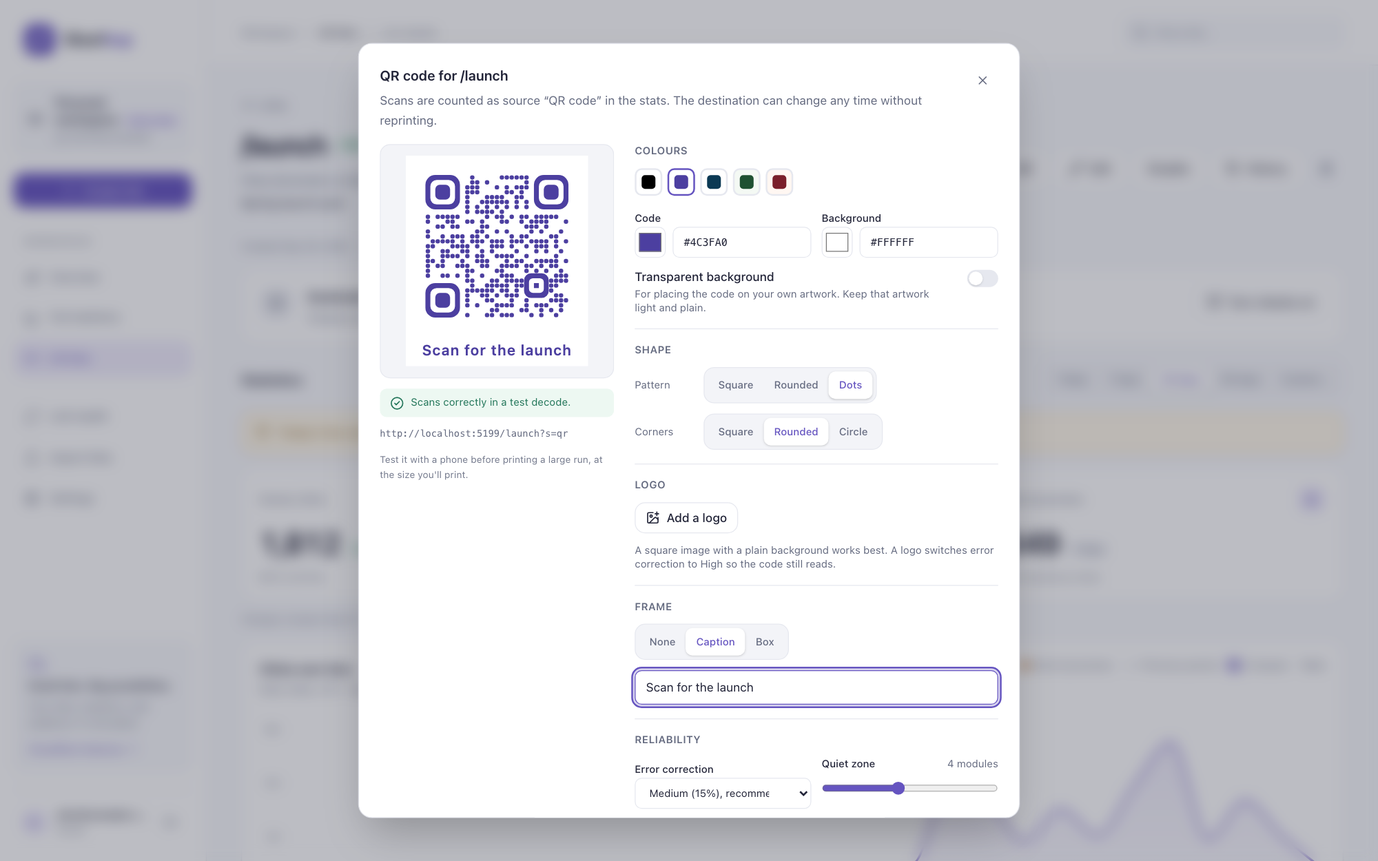
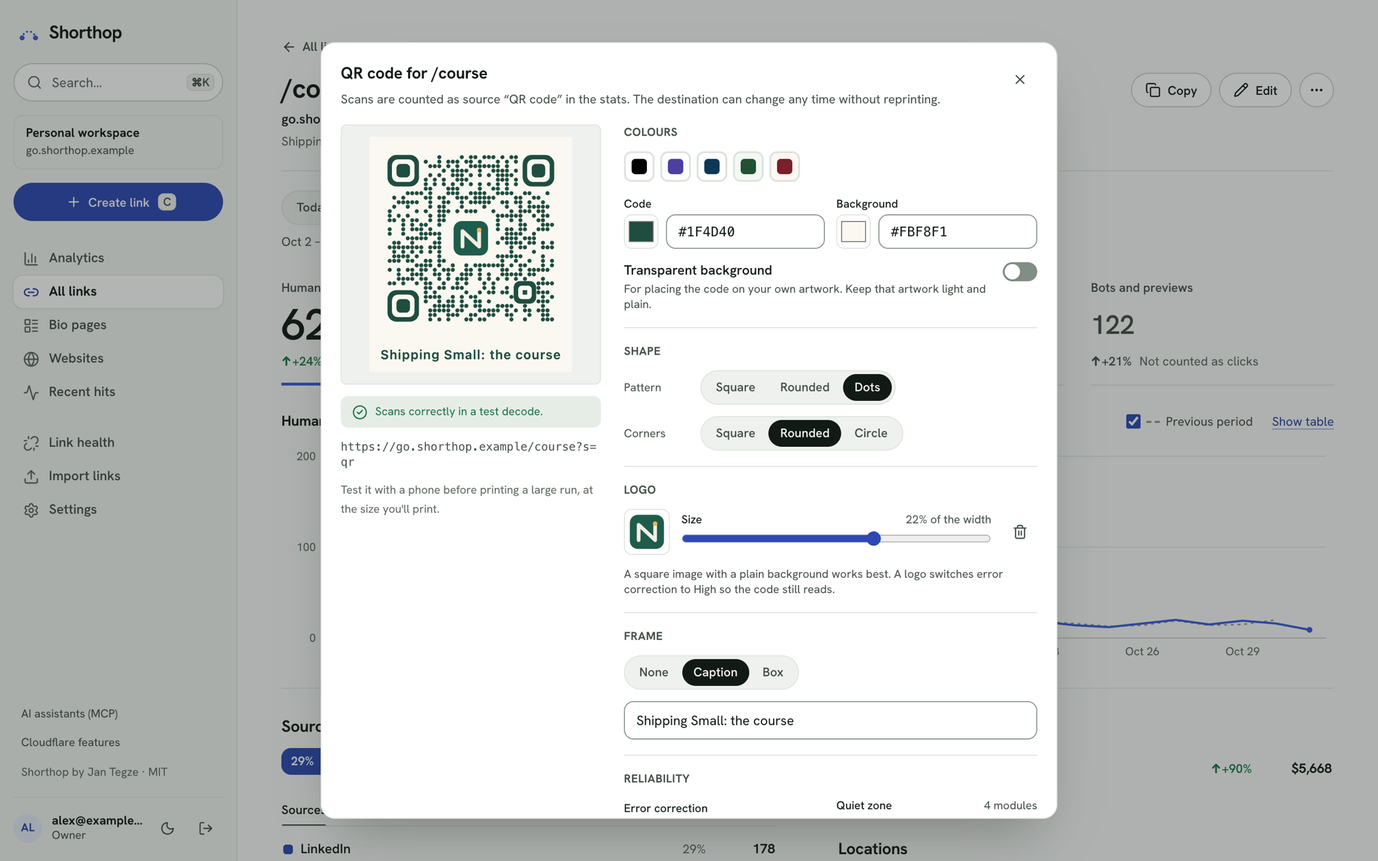
README for 2.0: why people switch, what's new, leaving another shortener, new screenshots
- A new opening: short links on your own domain and the customers they bring,
  with the one-field Deploy to Cloudflare setup
- "Why people switch to Shorthop": what users of hosted shorteners run into,
  and what Shorthop does instead
- What's new in 2.0, the features list brought up to date, steps for leaving
  another shortener, and FAQ entries on AI assistants, flagged destinations
  and Bitly QR codes
- Configuration, routes and project layout for MCP, OpenAPI, backups, the
  safety lookups and src/client/app
- Every screenshot retaken in the new design with made-up data; the ones no
  longer shown are removed

diff --git a/README.md b/README.md
@@ -4,37 +4,53 @@
 [![Node 22.12+](https://img.shields.io/badge/node-%E2%89%A522.12-brightgreen.svg)](package.json)
 [![Runs on Cloudflare Workers](https://img.shields.io/badge/runs%20on-Cloudflare%20Workers-f38020.svg)](https://workers.cloudflare.com/)
 
-**Short links, website analytics and revenue attribution on your own domain, in one Cloudflare Worker you own.**
+**Short links on your own domain, and the paying customers they bring, in one Cloudflare Worker you own.**
 
-See which link, post, newsletter or AI answer brought each visitor, and each paying customer. No cookies, no IP addresses stored, no monthly bill: for most personal use it fits inside Cloudflare's free allowances.
+Put a link in a LinkedIn post or on a printed QR code, then see the clicks, the visits and the Stripe payment it led to. Shorthop runs in your own Cloudflare account, so no shortener's plan decides whether your links keep working or how much history you keep. It stores no IP addresses and sets no cookies. For most people it fits in Cloudflare's free allowances.
 
 [![Deploy to Cloudflare](https://deploy.workers.cloudflare.com/button)](https://deploy.workers.cloudflare.com/?url=https://github.com/jntegz/shorthop)
-<br><sub>No terminal needed. On Cloudflare's setup page, only the admin password needs filling in. [What each field means](docs/SETUP.md#deploy-form)</sub>
+<br><sub>You don't need a terminal: Cloudflare's setup page asks only for an admin password. [What each field means](docs/SETUP.md#deploy-form) · Coming from Bitly, Rebrandly, Short.io or Dub? [Bring your links](#leaving-another-shortener)</sub>
 
-![The Shorthop overview: human clicks, daily unique visitors and bots over 30 days, compared with the previous period](docs/images/dashboard.png)
+![The Shorthop analytics home: human clicks, visitors and revenue over 30 days, the top links and their sources](docs/images/dashboard.png)
 
-[Why Shorthop](#why-shorthop) · [What's new](#whats-new-in-13) · [Features](#features) · [Screenshots](#screenshots) · [Install](#install) · [Common trip-ups](#things-new-users-commonly-trip-over) · [Documentation](#documentation) · [Costs](#costs) · [FAQ](#faq)
+[Why people switch](#why-people-switch-to-shorthop) · [What's new](#whats-new-in-20) · [Features](#features) · [Screenshots](#screenshots) · [Install](#install) · [Common trip-ups](#things-new-users-commonly-trip-over) · [Documentation](#documentation) · [Costs](#costs) · [FAQ](#faq)
+
+## Why people switch to Shorthop
+
+What users of hosted shorteners keep running into, and what Shorthop does instead:
+
+| What happens elsewhere | With Shorthop |
+|---|---|
+| Links and QR codes stop working when a plan lapses or an account is banned | Links live in your own Cloudflare account, on your domain. No shortener's billing sits between you and them. |
+| Free links get ads, or a page before the destination | A plain `302` to the destination, after one KV read |
+| Click history cut to 30 days on cheaper plans | Daily statistics stay in your own database until you delete them; individual clicks are kept for 90 days |
+| Exports locked to higher plans | Links (with every setting), statistics and payments as CSV or JSON, or everything as one backup, any time |
+| A monthly cap on changing where a link goes | Change any link whenever you like (Workers Free allows 1,000 saves a day). Every version is kept and can be restored |
+| Revenue tracking only on a top plan, or under a commercial license | Revenue from Stripe, Paddle, Lemon Squeezy, Dodo Payments, Creem, Gumroad, FastSpring and PayPal, matched to the link that brought each buyer. MIT-licensed |
+| Priced per seat | Admins, managers and users with their own permissions, at no cost (Cloudflare Access is free for up to 50 users) |
 
 ## Why Shorthop
 
-- **From click to customer.** A short link takes someone to your site; Shorthop follows that visit to the payment it led to. You see revenue per link, per channel, per campaign and per landing page, not just clicks.
-- **Your domain, your data.** Links live on `go.yourdomain.com`, and every number stays in your own Cloudflare account. No seats, no plan limits on links, no vendor reading your traffic.
-- **Private by design.** Cookieless by default: nothing stored in the visitor's browser, and no IP addresses kept. Unique visitors are counted with a daily hash that can't be traced back afterwards.
-- **Proof you can share.** Send a brand, client or sponsor a live, read-only statistics page for one link: clicks, countries, sources and devices, without your login or your destination URL. Useful for creators and influencers reporting campaign results.
+- **Revenue per link.** A short link takes someone to your site, and Shorthop follows that visit to the payment it led to. A link straight to a Stripe, Lemon Squeezy, Dodo, Creem or Gumroad checkout is credited too, with no website in between. Revenue is broken down by link, channel, campaign and landing page.
+- **Everything in your account.** Links live on `go.yourdomain.com`, and every number stays in your Cloudflare account. Back it all up as one ZIP whenever you like.
+- **Cookieless.** Nothing is stored in the visitor's browser and no IP addresses are kept. Unique visitors are counted with a daily hash that can't be traced back afterwards.
+- **Reports you can send.** Send a sponsor or client a live, read-only page for one link, or a campaign report for a tag or a set of links, with revenue if you choose. They never see your login or your destinations.
 - **Free to run.** One Worker on Cloudflare's free tier covers most personal use (100,000 requests a day). Install it with one button.
 
-## What's new in 1.3
+## What's new in 2.0
 
-- **Privacy requests:** find, export or erase everything stored about one visitor or customer, and let customer details expire after 1 to 7 years.
-- **`ENCRYPTION_KEY`:** an optional secret for stored webhook, share and payment secrets, so rotating `SESSION_SECRET` no longer makes them unreadable.
+- **A new admin.** Every page is rebuilt: analytics, links, websites, live hits and settings, in light and dark, with ⌘K to jump anywhere, `c` to create a link, and a layout made for phones.
+- **Revenue from links straight to a checkout:** Stripe Payment Links, Lemon Squeezy, Dodo, Creem and Gumroad.
+- **Campaign reports:** one read-only page for a tag or a set of links, optionally with revenue, for sponsors and clients.
+- **Leave another shortener in minutes:** import from Bitly, Rebrandly, Short.io or Dub by file or straight from their API, and move the links onto your domain.
+- **Backups:** everything in one ZIP, plus a weekly copy to R2.
+- **AI assistants:** create links and read statistics from Claude Code, Cursor or VS Code through an MCP server, or install the skill with `npx skills add jntegz/shorthop`. The admin also has an API reference, and Workers AI can suggest slugs and previews if you turn it on.
+- **Live map and click heatmap:** see where clicks come from right now, and the hours your audience clicks, so you know when to post. A new `link.clicked` webhook sends each click to your own tools.
+- **Bio pages:** a link-in-bio page whose buttons are your own short links, so every tap is counted.
+- **Safety:** a warning page before destinations Cloudflare flags as malware or phishing.
+- **Day to day:** bulk actions, a warning when a destination is already shortened, a bookmarklet and a share target, and error messages that say what failed.
 
-New in 1.2:
-
-- **Websites:** a small cookieless script (about 8 KB) for your own sites, with a live view of who's on the site right now.
-- **Revenue:** payments from **Stripe, Paddle, Lemon Squeezy, Dodo Payments, Creem, Gumroad, FastSpring and PayPal**, matched to the visit and the short link that brought each buyer.
-- **Insights:** peak hours, reading time and average scroll depth for buyers against non-buyers, page speed (Core Web Vitals), goals, funnels, path to purchase and customer value by first source.
-- **Shared statistics** for a single link, with an optional password and end date.
-- **Your colour:** pick the admin's accent colour (purple, blue, green, red or any colour).
+Earlier releases are in the [changelog](CHANGELOG.md).
 
 ## Features
 
@@ -42,27 +58,31 @@ New in 1.2:
 
 - **Fast redirects:** one KV read, then a `302`. Analytics is written after the response, so it never slows down or breaks a click.
 - **Several domains:** each short domain has its own slugs and stats. The admin can live on the primary domain or on a separate host.
-- **Admin at `/_admin`:** create, edit, disable, expire, tag and search links, with custom slugs and a live preview of the short link.
+- **Admin at `/_admin`:** create, edit, disable, expire, tag and search links, with custom slugs and a live preview of the short link. Select links to enable, disable, tag or delete them together, and rename or merge tags.
+- **Bio pages:** a link can be a link-in-bio page instead of a redirect, with buttons to your own short links or any address, short texts, section titles, social icons, a share panel and your own colours.
 - **Smart routing:** rules by device (iPhone & iPad, Android, desktop, other) and country, first match wins, with A/B splits across up to 10 weighted destinations. A simulator in the editor, and results per rule and variant on the link page. Bots and previews get the default destination; no cookies.
-- **Social previews:** your own title, description and image for LinkedIn, Slack, X, iMessage and other link previews, with mockups while you edit.
+- **Social previews:** your own title, description and image for LinkedIn, Slack, X, iMessage and other link previews, with mockups while you edit. Workers AI can suggest slugs and write the preview (optional).
 - **UTM builder:** one field per parameter, saved presets, and a preview of the URL visitors land on.
 - **QR studio:** colours with a contrast check, dot and corner shapes, a logo, frames with a caption, a live scan test, SVG or PNG up to 4096 px, print sheets, and a ZIP of every link's code. Scans count as their own source.
 - **Password-protected links and click limits:** visitors enter a password first, or a link stops after a set number of clicks, counted exactly by a Durable Object. Bots and previews don't count.
-- **Links that no longer work:** mark one as retired and pick a replacement. Visitors get a page with a button to it, or are sent on to your site after a few seconds. Unknown slugs get your own 404 page.
+- **Links that no longer work:** mark one as retired and pick a replacement. Visitors get a page with a button to it, or are sent on to your site after a few seconds. Unknown slugs get your own 404 page, in light and dark.
+- **Unsafe destinations:** a destination Cloudflare's security DNS flags as malware or phishing gets a warning page before the redirect. "I trust this destination" lifts it.
 - **Link history:** every change is saved as a version with who made it, and any earlier version can be restored. Deleted links can be brought back for 90 days.
-- **Turning a link off:** Disable asks where visitors go meanwhile: the 404 page, your site, or another of your links. Automatic checks pause while it's off.
-- **Import and export:** CSV import with column mapping, for moving from another shortener (old click counts are kept), and CSV export of links and daily stats.
+- **Import and export:** import from Bitly, Rebrandly, Short.io or Dub by their API or their CSV export (old click counts are kept), or any CSV. Export links as CSV, or as JSON with every setting for another Shorthop.
 
 ### Sharing statistics
 
 - **A public page for one link** at `/_share/<id>.<secret>`: clicks, daily visitors, countries, cities, sources, devices and more, read-only. Send it to a brand or sponsor as proof of the clicks a post or campaign got.
-- **You decide what they see:** an optional end date, password, and the longest period viewers may pick. Viewers can switch between light and dark (or add `?theme=dark` to the address). It never shows the destination, the link's history or revenue, and you can revoke it at any time.
+- **Campaign reports:** the same for a tag (links tagged later join in) or a chosen set of links, with a table per link and, if you turn it on, revenue per currency.
+- **You decide what they see:** an optional end date, password, and the longest period viewers may pick. Viewers can switch between light and dark (or add `?theme=dark` to the address). It never shows the destination or the link's history, and you can revoke it at any time.
 
 ### Analytics
 
 - **Per click:** country, region, city, device, OS, browser, referrer, source tag and language. Humans, bots and misses are counted separately.
+- **Live map:** a globe of the latest human clicks, at city level, with the top countries and links.
+- **When people click:** a weekday × hour heatmap in your own time zone, per link and for the whole account.
 - **Private by design:** no IP addresses or cookies are stored. Unique visitors are counted with a daily hash whose random salt is deleted once the day is over. See [visitor privacy](docs/PRIVACY.md).
-- **Any period:** today, 7, 30 or 90 days, 6 to 12 months, all time or any dates, compared with the previous period. Per link, or every link together on the Full statistics page.
+- **Any period:** today, 7, 30 or 90 days, 12 months, all time or any dates, compared with the previous period.
 - **Kept for good:** a daily job saves each day into D1, so stats outlive Analytics Engine's 90-day retention.
 
 ### Websites
@@ -81,6 +101,7 @@ New in 1.2:
 
 - **Payment providers:** **Stripe, Paddle, Lemon Squeezy, Dodo Payments, Creem, Gumroad, FastSpring and PayPal** send verified webhooks; switch on the ones you sell with, follow the steps, and press **Check connection**. Other billing can send payments through the API.
 - **Buyers matched to their visit:** each payment is tied to the visit that led to it (the checkout reference, the same customer, an email your server reported, or checkout timing), with how sure each match is. Revenue by channel, campaign, short link, landing page, country or device adds up to the total.
+- **Links straight to a checkout:** a short link to a Stripe Payment Link or a Lemon Squeezy, Dodo, Creem or Gumroad checkout carries a random reference, so the sale is credited to the link without a website in between.
 - **Buyers and non-buyers:** follow a customer's journey visit by visit, compare how buyers read your pages, see the path to purchase (time to buy, visits before buying) and customer value by the source that first found them.
 - **Subscriptions and refunds:** MRR, churn, new against renewal revenue; refunds and disputes follow their charge. Amounts are converted to the site's currency at the day's ECB rate. Past payments can be imported (all providers except PayPal).
 - **Revenue per short link:** short links to a tracked site carry a signed click token (`?sh_c=`), so each link shows the visits and revenue it brought.
@@ -91,60 +112,45 @@ New in 1.2:
 
 - **Link health:** destination checks for the links you pick (**Check that the destination works**, off by default) or for all links, once you turn automatic checking on and choose how often. **Never check this link** keeps a link out either way. A destination that fails 3 times in a row sends one email and gets a Fix dialog. Sites that refuse automated checks show as "can't check" and never alert.
 - **Missed visits:** a report of slugs people tried that don't exist, with scanners and bots kept apart, so you can create the link someone mistyped, send the path to an existing link, or ignore it for good (the ignored list exports and imports as CSV).
-- **System status:** setup checks for storage, analytics, email, domains and sign-in, with an alert email when something breaks.
+- **System status:** setup checks for storage, analytics, email, domains and sign-in, each with the command that fixes it, the version you run, and an alert email when something breaks.
+- **Backups:** Settings → General → Backup downloads every table as one ZIP, without secrets; bind an R2 bucket for a copy every week ([how](docs/SETUP.md#backup)).
 - **Weekly digest and alerts:** by Cloudflare Email Service, Resend, Emailit, Postmark, SendGrid, Mailgun, any other JSON email API, or a signed webhook. The digest lists each site's visitors and revenue too.
 
 ### People, automation and appearance
 
 - **People and roles:** with Cloudflare Access, add people as admins, managers or users, each with their own password and the permissions you tick. Pause someone until a date, sign them out everywhere, and let them reset a forgotten password by email. An optional Cloudflare Turnstile check guards the password pages.
-- **API at `/api`:** personal API keys for scripts, Zapier or Make and an [iOS Shortcut](docs/ios-shortcut.md). A key does only what it was given, can expire, and stops working when it's revoked.
-- **Webhooks:** signed events for links created, changed or deleted, destinations down or back, click milestones, payments and traffic spikes, with retries and a delivery log.
-- **Your colour:** Settings → Access → Appearance sets the accent of buttons, links and charts: purple, blue, green, red, or any custom colour. Each person picks their own; it's saved in their browser.
+- **API at `/api`:** personal API keys for scripts, Zapier or Make and an [iOS Shortcut](docs/ios-shortcut.md). A key does only what it was given, can expire, and stops working when it's revoked. The admin has a searchable API reference, and `/api/openapi.json` describes every endpoint.
+- **AI assistants:** an MCP server at `/api/mcp` lets Claude Code, Cursor or VS Code create links, read statistics and check revenue with your API key and its permissions. Or install the skill: `npx skills add jntegz/shorthop`.
+- **Webhooks:** signed events for links created, changed or deleted, clicks, destinations down or back, click milestones, payments and traffic spikes, with retries and a delivery log.
+- **Quick capture:** a "Shorten this page" bookmarklet, and Shorthop in your phone's share sheet once you install the admin as an app.
+- **Light, dark and your colour:** the admin follows your system or a switch next to Log out, and each person picks their own accent colour, saved in their browser.
 - **Works on a phone:** the admin is made for small screens too.
 
 ## Screenshots
 
-### Websites and revenue
-
-![Websites: each site with visitors over 7 days, revenue over 30 days, its top source, visitors online now and visits per day](docs/images/sites.png)
-
-![A site's dashboard: net revenue, the path to money from visitors to buyers, visits, engaged time and visits from short links](docs/images/site-dashboard.png)
-
-| Live: who's on the site now | Peak hours |
-|---|---|
-| ![Latest visits, refreshed every 15 seconds: country, source, channel and the pages read](docs/images/site-live.png) | ![A weekday by hour heatmap of visits with the three busiest hours outlined](docs/images/site-peak-hours.png) |
-| **Reading and scroll: buyers** | **Page speed** |
-| ![Reading time, average scroll and share who read 75% or more, for buyers](docs/images/site-reading.png) | ![Core Web Vitals per page: LCP, INP and CLS, good or needs improvement](docs/images/site-page-speed.png) |
-| **Funnels** | **Path to purchase** |
-| ![A funnel from blog posts to pricing to checkout, with drop-off, time per step and how many paid](docs/images/site-funnel.png) | ![Time to buy, visits before buying, and where customers first came from against the visit credited with the sale](docs/images/site-purchase-path.png) |
-| **Payments, matched to visits** | **Payment providers** |
-| ![Payments with provider, customer, the visit credited and how sure the match is](docs/images/site-payments.png) | ![Stripe, Paddle, Lemon Squeezy, Dodo Payments, Creem, Gumroad, FastSpring and PayPal, three of them receiving](docs/images/site-providers.png) |
-| **Install on any platform** | **Shared statistics for one link** |
-| ![The install card: the script tag, a check that it arrived, and the Next.js snippet](docs/images/site-install.png) | ![A public, read-only statistics page for one short link: clicks, daily visitors and countries](docs/images/share-stats.png) |
-
-**Pick your colour**
-
-![The same dashboard in purple, blue, green and red accents](docs/images/appearance.png)
-
-### Links
-
 | All links | One link |
 |---|---|
-| ![All links with tags, badges for smart, protected and limited links, click counts and status](docs/images/links.png) | ![A link page: actions, the destination check and its statistics](docs/images/link-detail.png) |
-| **Smart routing rules** | **Where routed visitors went** |
-| ![The smart routing editor: an A/B split for desktop visitors and the simulator](docs/images/routing.png) | ![Smart routing results: clicks per rule and per A/B variant](docs/images/routing-results.png) |
-| **Social preview** | **QR studio** |
-| ![The social preview editor with an uploaded image and a LinkedIn mockup](docs/images/social-preview.png) | ![The QR studio: purple dots, rounded corners and a caption, with a scan test](docs/images/qr.png) |
-| **Full statistics** | **Link health** |
-| ![Full statistics: countries, cities, sources, referrers, devices and operating systems](docs/images/stats.png) | ![Link health: destinations that work, one that doesn't with a Fix button, and one that can't be checked](docs/images/link-health.png) |
-| **People and roles** | **Short domains** |
-| ![Settings → People: an owner, an admin, a manager and users, one of them paused](docs/images/people.png) | ![Settings → Short domains: the domain list and a guided setup for a new domain](docs/images/settings-domains.png) |
+| ![All links with tags and badges, three selected for a bulk action](docs/images/links.png) | ![A link page: clicks, the revenue it brought and where visitors came from](docs/images/link-detail.png) |
+| **Websites** | **A site's dashboard** |
+| ![Websites: each site with visitors, revenue and its top source](docs/images/sites.png) | ![A site's dashboard: the path to money, revenue per short link and where visitors came from](docs/images/site-dashboard.png) |
+| **Live map** | **Campaign report** |
+| ![Recent hits on a globe: the latest clicks around the world, with top countries and links](docs/images/live-map.png) | ![A shared campaign report: every link in the campaign, clicks and revenue](docs/images/campaign-report.png) |
+| **Bio page editor** | **Import from another shortener** |
+| ![The link form as a bio page: buttons, social icons and a live preview](docs/images/bio-editor.png) | ![Import links: a Bitly export mapped, with its bit.ly links moving onto your domain](docs/images/import.png) |
+| **Smart routing** | **QR studio** |
+| ![The smart routing editor: an A/B split and a country rule](docs/images/routing.png) | ![The QR studio: a styled code with a caption and a scan test](docs/images/qr.png) |
+| **AI assistants** | **Dark** |
+| ![Settings: connect Claude Code, Cursor or VS Code to Shorthop's MCP server](docs/images/mcp.png) | ![The analytics home in the dark theme](docs/images/dark-mode.png) |
+
+| On a phone | A bio page |
+|---|---|
+| ![All links on a phone, with the tab bar](docs/images/mobile.png) | ![A public bio page whose buttons are short links](docs/images/bio-page.png) |
 
 What visitors see:
 
-| Password-protected link | Link no longer working | Unknown slug |
-|---|---|---|
-| ![The password page of a protected link](docs/images/link-password.png) | ![A retired link's page, pointing to its replacement](docs/images/link-retired.png) | ![The custom 404 page](docs/images/not-found.png) |
+| Password-protected link | Link no longer working | Unknown slug | Shared statistics |
+|---|---|---|---|
+| ![The password page of a protected link](docs/images/link-password.png) | ![A retired link's page, pointing to its replacement](docs/images/link-retired.png) | ![The custom 404 page](docs/images/not-found.png) | ![A public, read-only statistics page for one short link](docs/images/share-stats.png) |
 
 <sub>Screenshots from local development with made-up sites, links, customers and stats. Every domain is on the reserved `.example` TLD and every email address is an `example.com`/`.net`/`.org` address.</sub>
 
@@ -181,6 +187,15 @@ npm run setup
 
 The full manual, including every Cloudflare dashboard step, is in **[docs/SETUP.md](docs/SETUP.md)**.
 
+### Leaving another shortener
+
+1. Install Shorthop, and list your branded short domain in `SHORT_DOMAINS` without adding its route yet, so its DNS stays with the old service.
+2. **Import links → Another shortener's API:** pick Bitly, Rebrandly, Short.io or Dub and paste an API key. The key is used only while the page reads your links and is never saved. Or upload their CSV export; Shorthop recognises its columns.
+3. Links on the vendor's own domain (bit.ly, rebrand.ly, short.gy, dub.sh) move to your domain with the same back-half. Their old addresses keep pointing at the vendor.
+4. Check the destinations in Link health, then add the domain's route and deploy. The domain switches over with every link and printed QR code on it still working, now counted in your statistics.
+
+The order of the switch, and a dry run against your local copy first, are in [moving from another shortener](docs/SETUP.md#import).
+
 ### Things new users commonly trip over
 
 | You see | Why | What to do |
@@ -211,10 +226,11 @@ Read the [changelog](CHANGELOG.md)'s Upgrading notes for each version first.
 
 ## Documentation
 
-- **[Setup manual](docs/SETUP.md):** [requirements](docs/SETUP.md#what-you-need), [the Deploy to Cloudflare button](docs/SETUP.md#deploy-button), [domains](docs/SETUP.md#domains), [Cloudflare Access](docs/SETUP.md#access), [email](docs/SETUP.md#email), [websites and revenue](docs/SETUP.md#websites), [troubleshooting](docs/SETUP.md#troubleshooting), [updating](docs/SETUP.md#updating), [moving from another shortener](docs/SETUP.md#import), [uninstalling](docs/SETUP.md#uninstalling)
+- **[Setup manual](docs/SETUP.md):** [requirements](docs/SETUP.md#what-you-need), [the Deploy to Cloudflare button](docs/SETUP.md#deploy-button), [domains](docs/SETUP.md#domains), [Cloudflare Access](docs/SETUP.md#access), [email](docs/SETUP.md#email), [websites and revenue](docs/SETUP.md#websites), [troubleshooting](docs/SETUP.md#troubleshooting), [updating](docs/SETUP.md#updating), [backups](docs/SETUP.md#backup), [moving from another shortener](docs/SETUP.md#import), [uninstalling](docs/SETUP.md#uninstalling)
 - **[Cloudflare free tier](docs/CLOUDFLARE-FREE-TIER.md):** what each service allows and what Shorthop uses
 - **[iOS Shortcut](docs/ios-shortcut.md):** shorten a link from the share sheet
 - **[Visitor privacy](docs/PRIVACY.md):** what Shorthop records about visitors, for your privacy notice
+- **[Design system](docs/DESIGN.md):** the admin's tokens, components and layout rules, for contributors
 - **[Security](SECURITY.md):** reporting a vulnerability, protections and a hardening checklist
 - **[Contributing](CONTRIBUTING.md):** reporting bugs, running it locally and opening a pull request, under the [Code of Conduct](CODE_OF_CONDUCT.md)
 
@@ -288,6 +304,7 @@ npm run types            # then regenerate worker-configuration.d.ts
 | `DIGEST_FROM`, `DIGEST_TO` | var | Sender and the only recipient of the digest and alerts |
 | `DIGEST_MAILGUN_DOMAIN`, `DIGEST_MAILGUN_REGION` | var | Mailgun only |
 | `DIGEST_CUSTOM_AUTH`, `DIGEST_CUSTOM_BODY` | var | Custom email API only, optional: auth header and JSON body template ([docs/SETUP.md](docs/SETUP.md#custom)) |
+| `SAFETY_DNS` | var | `off` makes no lookups at Cloudflare's security DNS (the unsafe-destination warning). Anything else, or unset: on |
 | `DEV_AUTH_BYPASS` | var | `1` only in `.dev.vars`: skips Access on localhost. Ignored on any other host |
 | `DEV_AUTH_EMAIL` | var | With `DEV_AUTH_BYPASS` only: see the admin as this person from Settings → People. Empty: an owner |
 | `API_TOKEN` | secret | Optional, from before personal API keys: a Bearer token for `/api`, limited by `API_TOKEN_SCOPE`. New installs don't get one |
@@ -300,12 +317,14 @@ npm run types            # then regenerate worker-configuration.d.ts
 | `RESEND_API_KEY`, `EMAILIT_API_KEY`, `POSTMARK_API_KEY`, `SENDGRID_API_KEY`, `MAILGUN_API_KEY` | secret | Each provider's own API key. An older `DIGEST_API_KEY` still works, for the provider named in `DIGEST_PROVIDER` only |
 | `DIGEST_CUSTOM_URL`, `DIGEST_CUSTOM_API_KEY` | secret | Custom email API only: HTTPS endpoint and key |
 | `DIGEST_WEBHOOK_URL`, `DIGEST_WEBHOOK_SECRET` | secret | Webhook endpoint and its HMAC key |
+| `AI` | binding | Optional Workers AI, for slug and preview suggestions. Commented out in the config template |
+| `BACKUPS` | binding | Optional R2 bucket for the weekly backup. Commented out in the config template |
 
 ## How requests are routed
 
 | Path | Handled by |
 |---|---|
-| `/{slug}` | KV lookup of `<domain>/<slug>`, then a 302 (to the destination smart routing picks), or the 404 page (logged as a miss). A password-protected link shows its password form first (POST to the same path); a link at its click limit shows a "limit reached" page; preview crawlers get the link's social preview. A link marked "no longer working" gets a 410 page: a button to its replacement link, or, without a usable one, a redirect after a few seconds to the site set in Settings |
+| `/{slug}` | KV lookup of `<domain>/<slug>`, then a 302 (to the destination smart routing picks), a bio page, or the 404 page (logged as a miss). A destination Cloudflare flags gets a warning page first. A password-protected link shows its password form first (POST to the same path); a link at its click limit shows a "limit reached" page; preview crawlers get the link's social preview. A link marked "no longer working" gets a 410 page: a button to its replacement link, or, without a usable one, a redirect after a few seconds to the site set in Settings |
 | `/_og/<key>` | An uploaded social-preview image. Also served on `ADMIN_HOST`, for the editor |
 | `/_t/script.js` | The website analytics script, on every host (CORS `*`, cached an hour) |
 | `/_t/e` | Its collector: one event per POST. The Origin and page must belong to the site, bots are dropped, and `COLLECT_LIMITER` brakes floods per network |
@@ -320,6 +339,8 @@ npm run types            # then regenerate worker-configuration.d.ts
 | `/_admin`, `/_admin/**` | Access JWT (unless password-only) and the password session, then the admin app with a strict CSP |
 | `/_admin/assets/*`, `/robots.txt`, `/favicon.ico` | Static assets, served without running the Worker |
 | `/_admin/api/*` | The API for the admin app: CSRF check, identity and session |
+| `/api/mcp` | The MCP server for AI assistants: JSON-RPC over HTTP, each tool calling the API with the caller's key |
+| `/api/openapi.json` | The API described as OpenAPI 3.0 |
 | `/api/*` | The same API with a personal API key, or the `API_TOKEN` secret (read and create only, unless `API_TOKEN_SCOPE` is `full`) |
 | `/health` | `ok` |
 
@@ -346,14 +367,20 @@ src/worker/webhooks.ts     signed webhook events, retries and the delivery log
 src/worker/click-cap.ts    the click-limit Durable Object
 src/worker/health.ts       System status, setup checks and alert emails
 src/worker/version.ts      the running version and the newest release (System status)
+src/worker/mcp.ts          the MCP server; openapi.ts: the API catalog and openapi.json
+src/worker/backup.ts       full backups and the weekly copy to R2
+src/worker/safety.ts       the unsafe-destination lookup at Cloudflare's security DNS
+src/worker/import/         reading links from Bitly, Rebrandly, Short.io and Dub
 src/worker/api/            links, stats, settings, checks, previews, UTM, QR, webhooks, people, keys, shares and sites routes
 src/worker/web/            websites: the event collector, sessions, queries, funnels, insights, alerts, privacy requests
 src/worker/revenue/        payment webhooks per provider, matching payments to visits, currency rates, imports
 src/worker/share.ts        the shared statistics page
 src/tracker/tracker.js     the website script served at /_t/script.js
-src/client/                admin app (React, Vite, Tailwind, TanStack Query, Recharts)
+src/client/app/            admin app: shell, pages and the component kit (React, Vite, TanStack Query; docs/DESIGN.md)
+src/client/components/     link editor dialogs (link form, routing, previews, QR studio, bio editor; Tailwind)
 test/                      Workers-runtime tests; test/node: setup tests
-docs/                      SETUP.md, CLOUDFLARE-FREE-TIER.md, PRIVACY.md, ios-shortcut.md, images/ (README screenshots)
+skills/shorthop/           the Agent Skills package (npx skills add jntegz/shorthop)
+docs/                      SETUP.md, CLOUDFLARE-FREE-TIER.md, PRIVACY.md, DESIGN.md, ios-shortcut.md, images/ (README screenshots)
 ```
 
 ## Design notes
@@ -389,6 +416,15 @@ Yes. On the link's page, create a shared statistics page and send its address. T
 
 **Does website tracking work with my site builder?**
 If it lets you add a script to the page head, yes: HTML, Next.js, WordPress, Shopify, Webflow, Framer, Wix, Squarespace, Ghost and others. The site's Settings & setup page shows the steps for each, and tells you live when the first visit arrives.
+
+**Can I use it with my AI assistant?**
+Yes. Settings → API, MCP & webhooks has the setup for Claude Code, Cursor and VS Code: they connect to `/api/mcp` with a personal API key and can do whatever that key is allowed to. For agents that use Agent Skills, `npx skills add jntegz/shorthop` installs Shorthop's.
+
+**What if Cloudflare flags one of my destinations?**
+New and changed destinations are checked at Cloudflare's security DNS. A flagged one shows visitors a warning page with a "Continue anyway" link instead of redirecting, and the link is marked in the admin. If you know the site is fine, choose **I trust this destination** in the link form. `SAFETY_DNS = "off"` turns the lookups off.
+
+**Will my Bitly QR codes keep working?**
+Codes on your own branded domain will. Import the links, point the domain to Shorthop, and the same addresses resolve. Codes that contain a `bit.ly` address keep pointing at Bitly.
 
 **Can I use it without Cloudflare?**
 No. Shorthop is built on Workers, KV, D1 and Analytics Engine directly.
